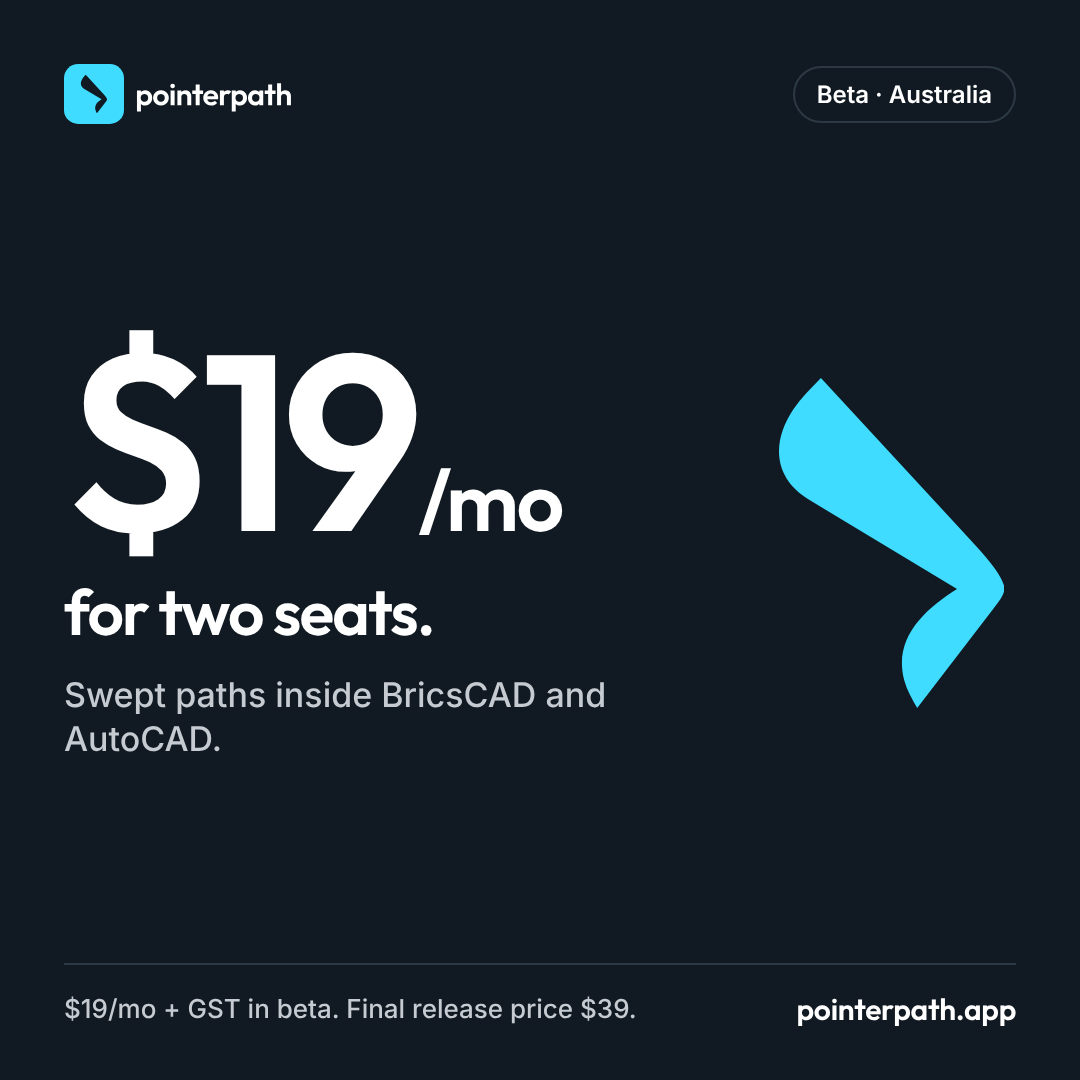
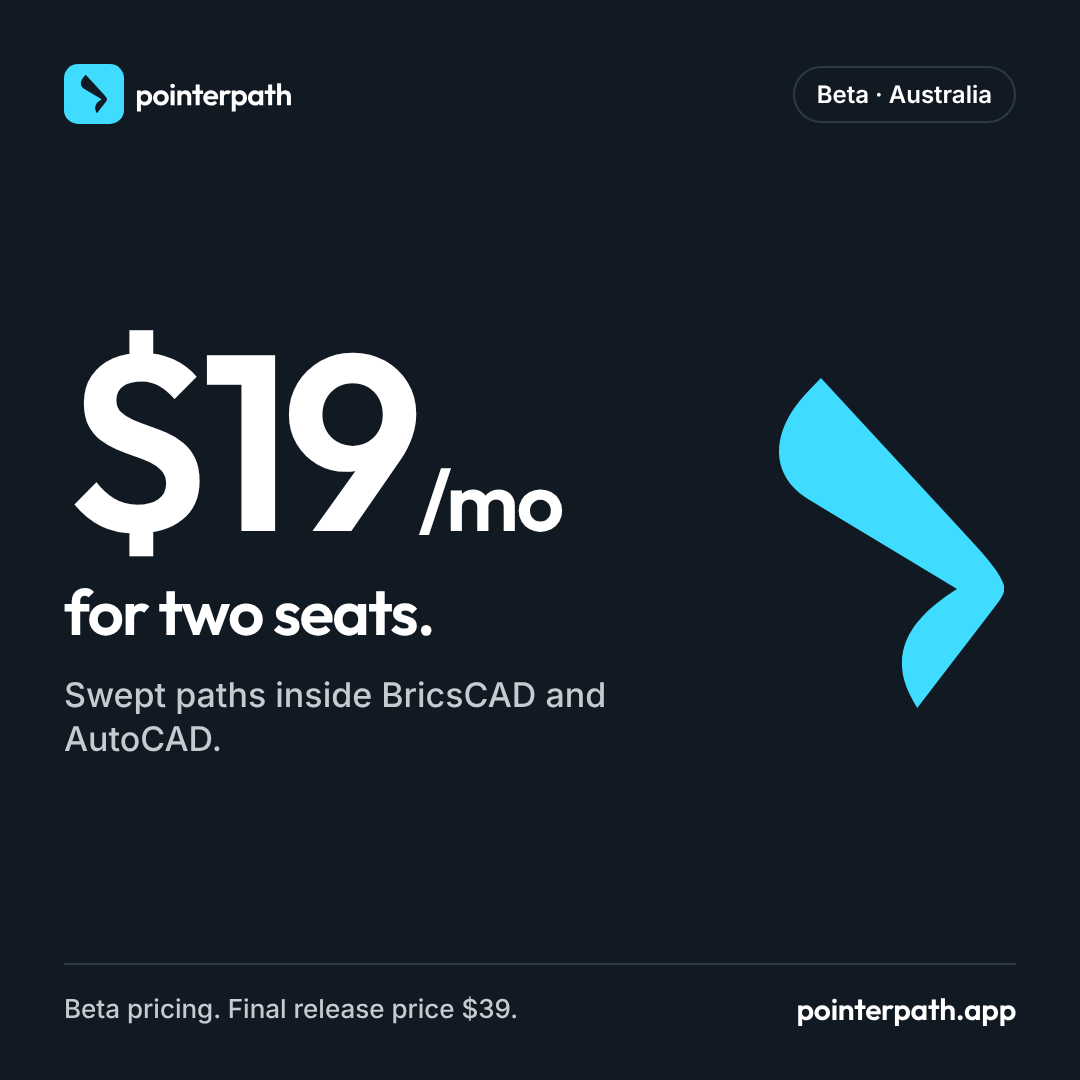
Reddit ads: take "+ GST" back out
The seller isn't registered for GST, so $19 a month is the whole price.
This puts the images, headlines and notes back as they were before
"+ GST" was added.

Claude-Session: https://claude.ai/code/session_01KkRABfMbuLrLHMVtbnmVDU

Changed region(s): [[0.0611, 0.9167, 0.5806, 0.9472]]

diff --git a/tools/ads/make_reddit_ads.js b/tools/ads/make_reddit_ads.js
@@ -24,7 +24,6 @@ const read = (...parts) => fs.readFileSync(path.join(ROOT, ...parts), 'utf8');
 // ---- What the ads say -------------------------------------------------------------------
 
 const PRICE = '$19';                       // the beta price Stripe charges, per month
-const GST = '+ GST';                       // that price is before GST, so every image that names it says so
 const SEATS = 'two seats';                 // LICENCE_MAX_MACHINES, as the site words it
 const FINAL = 'Final release price $39';   // PRICE_WAS, as the site words it
 const URL = 'pointerpath.app';
@@ -73,9 +72,8 @@ const fleet = () => `
 ${VEHICLES.map((v) => `<div class="fleet__row">${vehicleIcon(v.icon)}<span class="fleet__name">${v.name}</span><span class="fleet__std">${v.std}</span></div>`).join('\n')}
 </div>`;
 
-const priceFoot = `<p class="foot__price"><b>${PRICE}</b> ${GST} per month for ${SEATS}</p>`;
-// For the images whose headline is the price: the footer says it again in full, with the GST.
-const betaFoot = `<p class="foot__note">${PRICE}/mo ${GST} in beta. ${FINAL}.</p>`;
+const priceFoot = `<p class="foot__price"><b>${PRICE}</b> per month for ${SEATS}</p>`;
+const finalFoot = `<p class="foot__note">Beta pricing. ${FINAL}.</p>`;
 
 function ad({ theme = 'paper', layout = '', h1 = '', sub = '', facts = [], art = '', foot = priceFoot }) {
   const classes = ['ad', `ad--${theme}`, ...layout.split(' ').filter(Boolean).map((l) => `ad--${l}`)].join(' ');
@@ -100,7 +98,7 @@ const ADS = {
     sub: 'A lightweight add-in for BricsCAD and AutoCAD.',
     facts: [`One licence, ${SEATS}`, 'AS 2890 cars and rigid trucks', 'Metres or millimetres'],
     art: sheet(),
-    foot: betaFoot,
+    foot: finalFoot,
   }],
   'lightweight': [['1x1', '4x5'], {
     theme: 'paper',
@@ -151,7 +149,7 @@ const ADS = {
     theme: 'ink',
     layout: 'price',
     art: `<div class="big"><div class="big__text"><p class="big__amount">${PRICE}<small>/mo</small></p><p class="big__unit">for ${SEATS}.</p><p class="big__sub">Swept paths inside BricsCAD and AutoCAD.</p></div>${logomark}</div>`,
-    foot: betaFoot,
+    foot: finalFoot,
   }],
 };
 

diff --git a/brand/ads/reddit/README.md b/brand/ads/reddit/README.md
@@ -21,8 +21,8 @@ Reddit shows above the image; a second one is given for each to try against the 
 
 On the image: "Swept paths for $19 a month."
 
-1. Swept paths inside BricsCAD and AutoCAD for $19 + GST a month. Two seats, AS 2890 design vehicles.
-2. Only need a swept path now and then? PointerPath is $19/mo + GST for two seats during the beta.
+1. Swept paths inside BricsCAD and AutoCAD for $19 a month. Two seats, AS 2890 design vehicles.
+2. Only need a swept path a few times a month? PointerPath is $19/mo for two seats during the beta.
 
 Link: `https://www.pointerpath.app/?utm_source=reddit&utm_medium=paid&utm_campaign=beta-au&utm_content=price`
 
@@ -39,7 +39,7 @@ Link: `https://www.pointerpath.app/?utm_source=reddit&utm_medium=paid&utm_campai
 
 On the image: "The AS 2890 design vehicles, ready to drive."
 
-1. B85, B99, SRV, MRV and HRV swept paths inside BricsCAD and AutoCAD. $19/mo + GST for two seats.
+1. B85, B99, SRV, MRV and HRV swept paths inside BricsCAD and AutoCAD. $19/mo for two seats.
 2. The AS 2890 design vehicles, ready to drive in your own drawing.
 
 Link: `https://www.pointerpath.app/?utm_source=reddit&utm_medium=paid&utm_campaign=beta-au&utm_content=vehicles`
@@ -48,7 +48,7 @@ Link: `https://www.pointerpath.app/?utm_source=reddit&utm_medium=paid&utm_campai
 
 On the image: "Check the turn without leaving your drawing."
 
-1. Check the turn without leaving your drawing. Swept paths inside BricsCAD and AutoCAD, $19/mo + GST.
+1. Check the turn without leaving your drawing. Swept paths inside BricsCAD and AutoCAD, $19/mo.
 2. A swept path add-in that runs entirely inside BricsCAD and AutoCAD. No other add-in needed.
 
 Link: `https://www.pointerpath.app/?utm_source=reddit&utm_medium=paid&utm_campaign=beta-au&utm_content=in-cad`
@@ -58,7 +58,7 @@ Link: `https://www.pointerpath.app/?utm_source=reddit&utm_medium=paid&utm_campai
 Four square cards, in the order of their numbers: what it is, the vehicles, why it is light, the
 price.
 
-Headline: Lightweight swept paths for Australian civil and traffic engineers. $19/mo + GST for two seats.
+Headline: Lightweight swept paths for Australian civil and traffic engineers. $19/mo for two seats.
 
 Link, on every card: `https://www.pointerpath.app/?utm_source=reddit&utm_medium=paid&utm_campaign=beta-au&utm_content=carousel`
 
@@ -84,7 +84,7 @@ where each comes from; if one of these changes, change the ads.
 
 | Claim | From |
 |---|---|
-| $19 + GST per month for two seats | The beta price in Stripe, which is before GST, and `LICENCE_MAX_MACHINES` (2) |
+| $19 per month for two seats | The beta price in Stripe, and `LICENCE_MAX_MACHINES` (2) |
 | Final release price $39 | `PRICE_WAS` in `render.yaml`, worded as the site words it |
 | BricsCAD and AutoCAD | The home page |
 | B85 and B99 cars to AS/NZS 2890.1; SRV, MRV and HRV to AS 2890.2 | The home page's vehicle list |
@@ -137,6 +137,4 @@ node tools/ads/make_reddit_ads.js --only price,vehicles --out /tmp/ads
 It stops with a message if words no longer fit their place on an image (a longer headline, a
 higher price), rather than saving an image with something cut off.
 
-The price is before GST, so wherever an image or a headline names it, it says "+ GST" (`GST` in
-the script). When the beta ends, change `PRICE` and `FINAL` in the script and the headlines above
-together.
+When the beta ends, change `PRICE` and `FINAL` in the script and the headlines above together.
